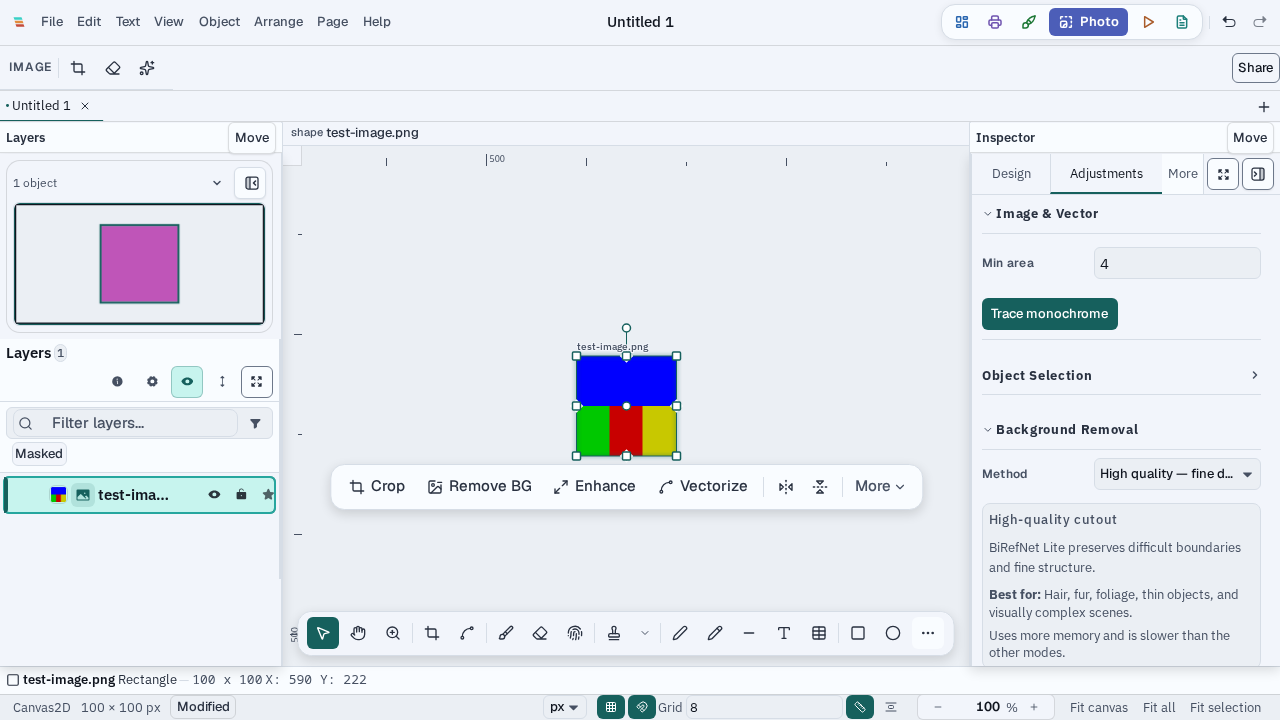
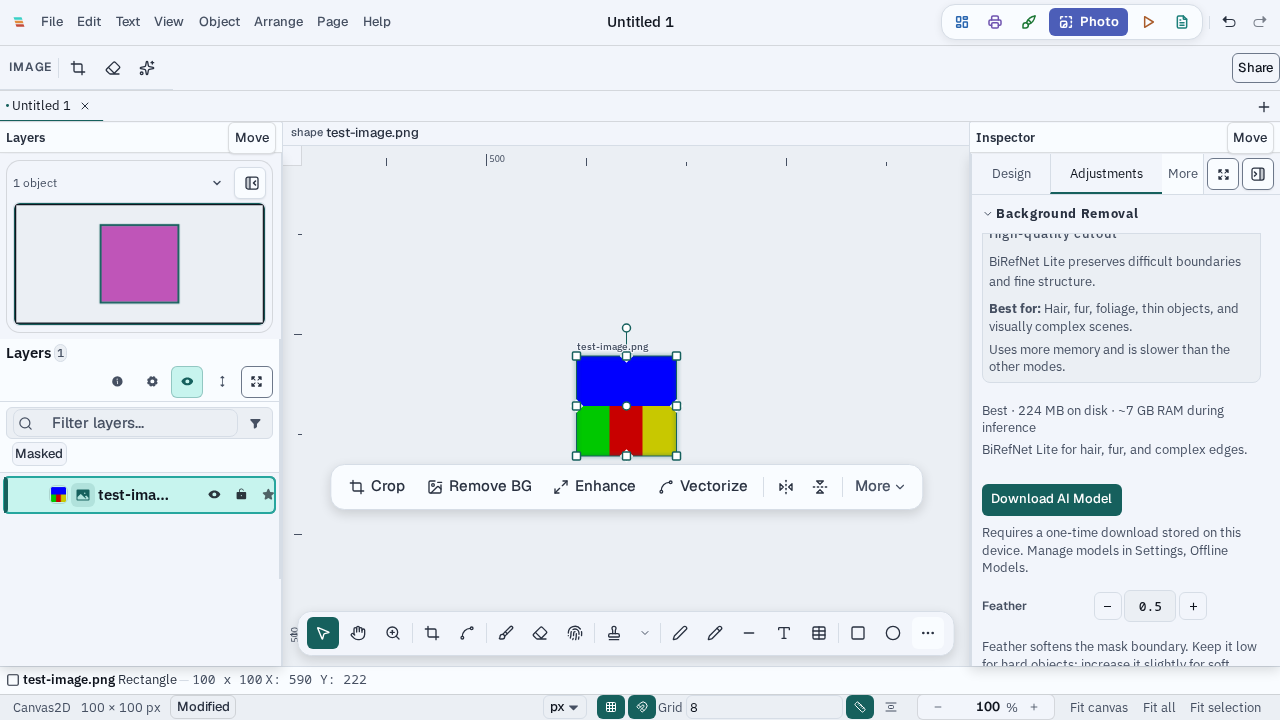
test(ai): capture the fixed model metadata as evidence
The viewport screenshot left the model line below the inspector fold, so
the visual evidence never showed the string the spec asserts. Capture the
info element itself, and stop prefixing the capture directory in the
spec: evidencePath already joins the configured root, which produced a
doubly nested folder.

Both capacity tests pass on the final spec (Auto cutout over 34s,
panel metadata 27s).

Changed region(s): [[0.75, 0.275, 0.9688, 0.7944], [0.75, 0.825, 1.0, 0.9472]]

diff --git a/tests/e2e/canvas/bg-removal-capacity.spec.ts b/tests/e2e/canvas/bg-removal-capacity.spec.ts
@@ -17,7 +17,6 @@ import { navigateToEditor, switchWorkspace } from '../shared';
 
 const FIXTURE = path.resolve(__dirname, '../fixtures/test-image.png');
 const CONTENT_CANVAS = 'canvas.editor-canvas__content-layer';
-const CAPTURE_DIR = '2026-10-22-admission-fix';
 
 async function importTestImage(page: import('@playwright/test').Page): Promise<void> {
   await page.locator('#file-import-input').setInputFiles(FIXTURE);
@@ -89,7 +88,7 @@ test.describe('Local AI background removal capacity', () => {
     await expect.poll(() => bluePixelCount(page), { timeout: 20000 }).toBeLessThan(before * 0.2);
 
     await page.screenshot({
-      path: evidencePath(`${CAPTURE_DIR}/auto-cutout-after-apply.png`),
+      path: evidencePath('auto-cutout-after-apply.png'),
       fullPage: false,
     });
   });
@@ -110,8 +109,11 @@ test.describe('Local AI background removal capacity', () => {
     await expect(info).toContainText(/during inference/);
     await expect(info).not.toContainText(/RAM RAM/i);
 
+    // Capture the element itself: the inspector scroll position is not part of
+    // this evidence, and a viewport shot can leave the line below the fold.
+    await info.screenshot({ path: evidencePath('high-quality-model-info.png') });
     await page.screenshot({
-      path: evidencePath(`${CAPTURE_DIR}/high-quality-panel.png`),
+      path: evidencePath('high-quality-panel.png'),
       fullPage: false,
     });
   });
